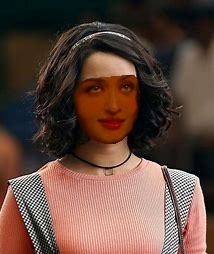
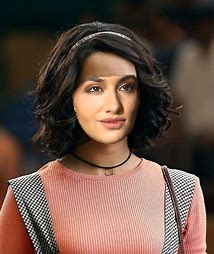
updated readme

Changed region(s): [[0.3364, 0.2756, 0.6449, 0.5787]]

diff --git a/README.md b/README.md
@@ -2,3 +2,5 @@
 A CV and DL project for my summer internship. This project can also be fun where you swap the faces of your friends (with permission) with celebrities.
 
 Working on developing a web service for it.
+![alt text](image.png)
+this is how it looks like.
